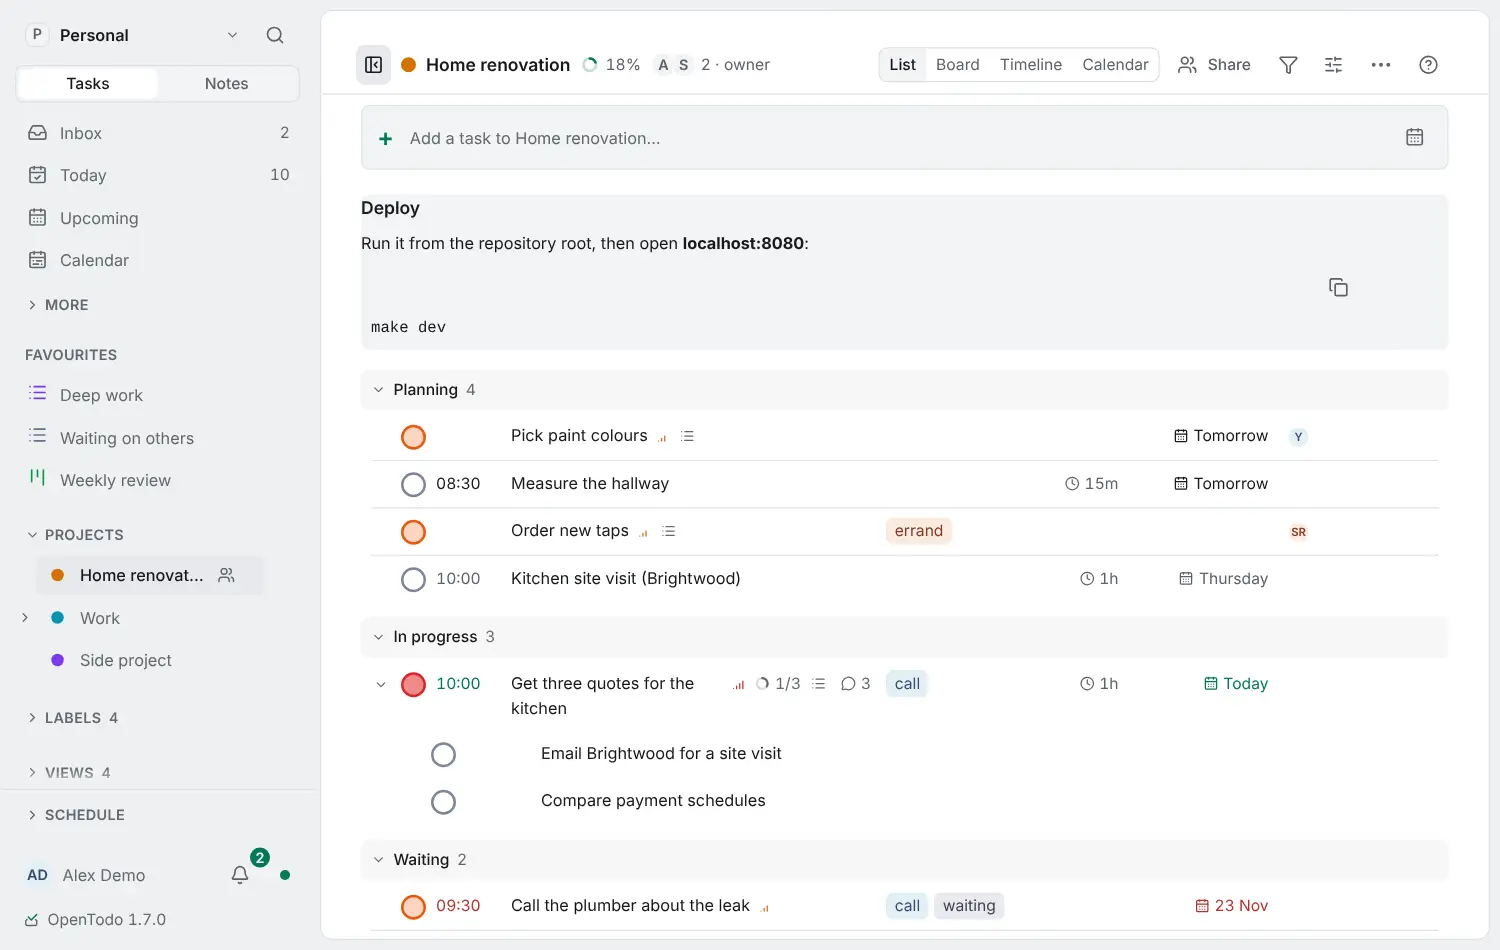
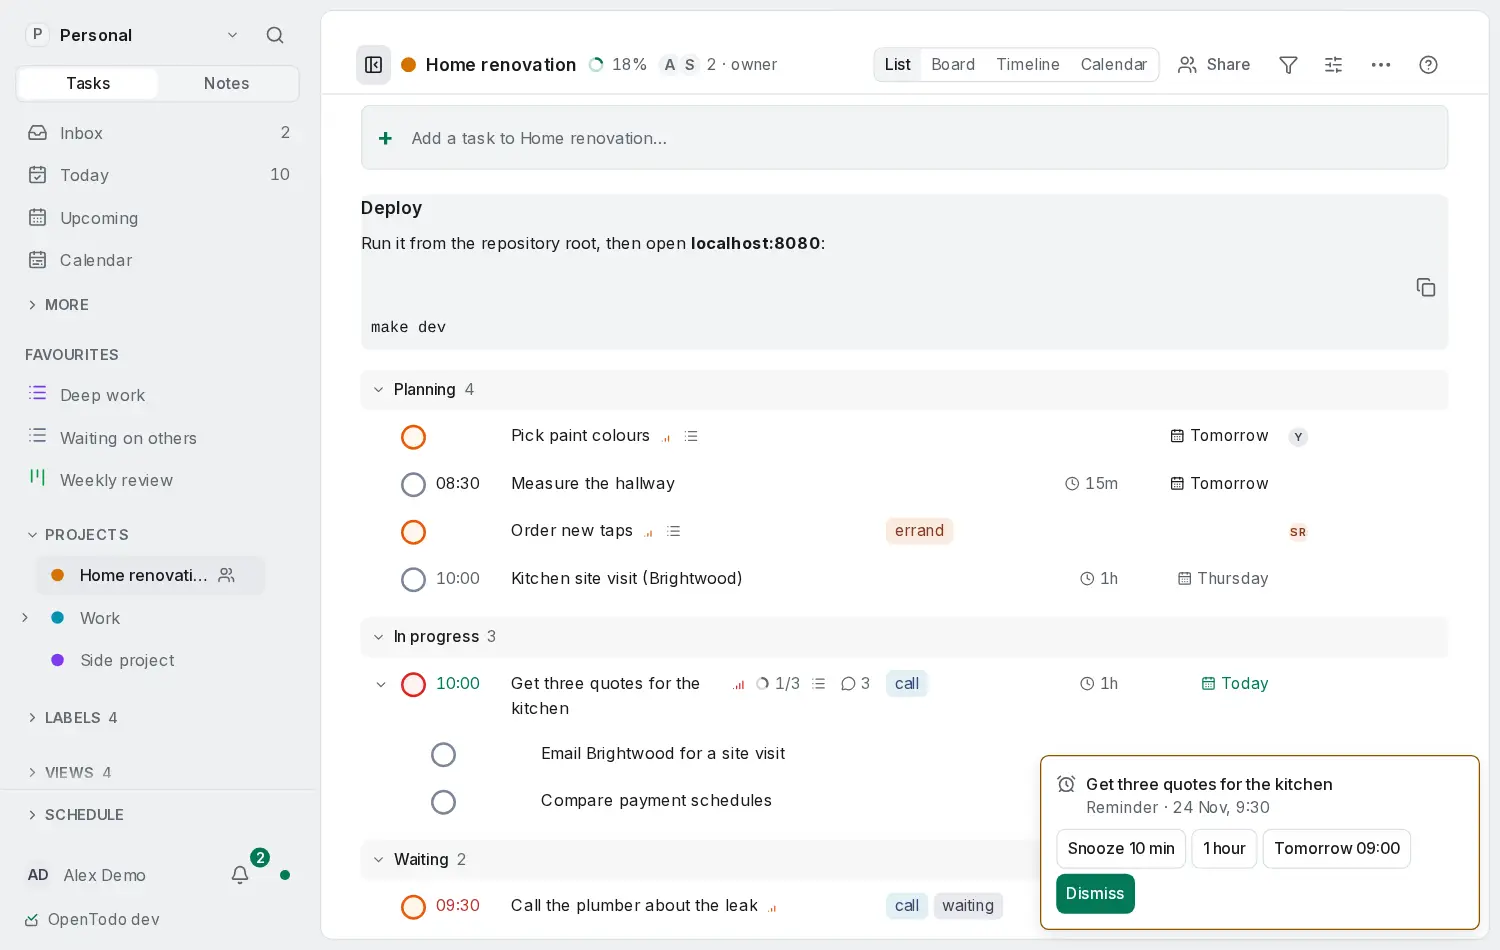
Fix: a code block's Copy button sits in the block's own corner
The bar reserved the note's corner on every code block, so a button far below
the corner floated 72 px in from the code's right edge and read as detached
from the block. The room belongs to the note's first block, once: the bar now
ends where the code does and the block keeps the note's full width.

- A note whose first block is code gives the corner's room to that block's
  bar, so the note's controls never overlap the button; every block below it
  keeps the bar at its own end corner.
- A code block takes no slot in a project note's corner any more, so a note
  with no controls reserves no room for it.
- The two screenshots in docs/copy-code-blocks.md are re-captured, where the
  button now sits at the block's corner in both themes.

diff --git a/web/src/app/notes/NoteEditor.tsx b/web/src/app/notes/NoteEditor.tsx
@@ -145,8 +145,6 @@ export function NoteForm({ note, readOnly }: { note: Note; readOnly: boolean }) 
   const project = projects.find((p) => p.id === note.project_id)
   const [focusBody] = useState(() => takeBodyFocus(note.id))
   const [initialInput] = useState(() => takePendingInput(note.id))
-  // The first code block's Copy button needs the corner's room (copy-code-block D3); a viewer's Copy note needs none.
-  const hasCode = !!note.description && note.description.split('\n').some((l) => /^ {0,3}(```|~~~)/.test(l))
   const [copied, setCopied] = useState(false)
   const form = useRef<HTMLDivElement>(null)
   const me = useMe()
@@ -159,9 +157,9 @@ export function NoteForm({ note, readOnly }: { note: Note; readOnly: boolean }) 
   return (
     <div ref={form} className="space-y-4" data-note-form={note.id}>
       <TitleInput note={note} readOnly={readOnly} />
-      {/* The rendered body sits in a frame of its own, so its first code block can leave the corner its room; the
-          editor keeps its own frame (the outline's). Only a code block takes room: a viewer's Copy note is absolutely placed. */}
-      <Suspense fallback={<div className="notes-frame" data-corner={hasCode ? '' : undefined} style={hasCode ? { '--notes-corner': '2.25rem' } as React.CSSProperties : undefined}><div className="notes-host" aria-busy="true"><div className="notes-editor">{note.description ? <Markdown source={note.description} taskId={noteParent(note.id)} /> : <p className="text-faint">{t('Add notes…')}</p>}</div></div></div>}>
+      {/* The rendered body sits in a frame of its own while the editor loads, so its text takes the same room the
+          editor's frame gives the corner; a code block's Copy button stays at the block's own corner. */}
+      <Suspense fallback={<div className="notes-frame"><div className="notes-host" aria-busy="true"><div className="notes-editor">{note.description ? <Markdown source={note.description} taskId={noteParent(note.id)} /> : <p className="text-faint">{t('Add notes…')}</p>}</div></div></div>}>
         <NotesEditor key={note.id} note={{ ...note, entity: 'note' }} readOnly={readOnly} autoFocus={initialInput ?? focusBody} outline="auto" copied={copied} onCopied={() => setCopied(true)} />
       </Suspense>
       {/* Viewers attach too (note-attachments D2); nothing shows until the note has a file. */}

diff --git a/web/src/index.css b/web/src/index.css
@@ -1033,19 +1033,18 @@ a.note-ref:focus-visible { @apply outline-2 outline-focus; }
    It takes no room of its own, so a note without a code block reserves no corner. */
 .note-copy-action { @apply absolute size-px overflow-hidden opacity-0; }
 .note-copy-action:focus-visible { @apply relative size-8 overflow-visible opacity-100; }
-.notes-frame[data-corner] .notes-editor > :first-child,
+.notes-frame[data-corner] .notes-editor > :first-child:not(.md-code),
 .notes-frame[data-corner] .editor-toolbar,
 .notes-frame[data-corner] > .notes-source { padding-inline-end: var(--notes-corner); }
+/* A note that opens with a code block (copy-code-block D3): the corner sits over the
+   block's bar, so only the bar leaves it room and the code keeps the block's width. */
+.notes-frame[data-corner] .notes-editor > :first-child.md-code .md-code__bar { padding-inline-end: var(--notes-corner); }
 /* A code block in rendered Markdown (copy-code-block D3): the Copy button sits in a
    bar above the code at its end corner, so it never covers the first line and the
    code keeps its own scroller. */
 .md-code { @apply relative rounded-control bg-sunken dark:bg-raised; }
 .md-code__bar { @apply flex justify-end px-0.5 pt-0.5; }
 .md-code > pre { @apply bg-transparent p-2; }
-/* A rendered note under a corner (copy-code-block): its first code block leaves the
-   corner its room, so the note's controls and the block's Copy button never overlap.
-   After the bar's own padding, so this wins: same layer, same specificity class. */
-.notes-frame[data-corner] > :not(.notes-corner):has(.md-code) .md-code__bar { padding-inline-end: var(--notes-corner); }
 /* The same block inside the editor (editor-copy-code-block D1): its node view draws
    the bar and the code, so it takes the rendered block's look and keeps the editor's
    own code typography. */

diff --git a/web/src/app/markdownCopy.test.tsx b/web/src/app/markdownCopy.test.tsx
@@ -5,6 +5,7 @@
 import { afterEach, describe, expect, it, vi } from 'vitest'
 import { click, render, waitFor } from '../ui/test-utils'
 import { Markdown } from './Markdown'
+import css from '../index.css?raw'
 
 const realClipboard = Object.getOwnPropertyDescriptor(navigator, 'clipboard')
 function stubClipboard(writeText: (t: string) => Promise<void>) {
@@ -60,5 +61,15 @@ describe('a code block in rendered Markdown', () => {
     const { container, unmount } = await render(<Markdown source={'```\na\n```\n\n```\nb\n```'} />)
     expect(container.querySelectorAll('[data-code-copy]').length).toBe(2)
     await unmount()
+  })
+
+  // The bar ends at the block's own end corner (copy-code-block D3). Reserving the
+  // note's corner on every bar pushed the button 72 px in from it, on blocks far below
+  // the corner; the room belongs to the note's first block, once.
+  it("keeps the bar at the block's end corner and the corner's room on the note's first block", () => {
+    expect(css).toMatch(/\.md-code__bar \{ @apply flex justify-end px-0\.5 pt-0\.5; \}/)
+    expect(css).toMatch(/\.notes-frame\[data-corner\] \.notes-editor > :first-child:not\(\.md-code\),/)
+    expect(css).toMatch(/\.notes-frame\[data-corner\] \.notes-editor > :first-child\.md-code \.md-code__bar \{ padding-inline-end: var\(--notes-corner\); \}/)
+    expect(css).not.toMatch(/:not\(\.notes-corner\):has\(\.md-code\) \.md-code__bar/)
   })
 })

diff --git a/web/src/app/projectNote.test.tsx b/web/src/app/projectNote.test.tsx
@@ -79,16 +79,18 @@ describe('project note', () => {
     await r.unmount()
   })
 
-  // copy-code-block: the corner's width is a variable on the frame, so a code block's
-  // Copy button leaves the corner its room instead of sliding under the note's controls.
-  it("a code block's Copy button leaves the note's corner its room", async () => {
+  // copy-code-block: a code block takes no slot in the note's corner. Its Copy button
+  // sits at the block's own corner, so a note with no controls reserves no room for it.
+  it("a code block's Copy button sits at the block's own corner", async () => {
     const p = await createProject({ name: 'Deploy' })
     await updateProject(p, { description: 'Run:\n\n```bash\nmake dev\n```' })
     const r = await render(<TaskListView route={{ view: 'project', id: p }} />)
     await waitFor(() => !!r.container.querySelector('[data-project-note] [data-code-copy]'))
     const frame = r.container.querySelector<HTMLElement>('[data-project-note] .notes-frame')!
-    expect(frame.getAttribute('data-corner')).not.toBeNull()
-    expect(frame.style.getPropertyValue('--notes-corner')).toBe('2.25rem')
+    // Nothing to make room for: the block keeps the note's full width and the button
+    // ends where the block does.
+    expect(frame.getAttribute('data-corner')).toBeNull()
+    expect(frame.style.getPropertyValue('--notes-corner')).toBe('')
     await r.unmount()
   })
 

diff --git a/web/src/app/ProjectNote.tsx b/web/src/app/ProjectNote.tsx
@@ -120,13 +120,11 @@ export function ProjectNote({ project, phone = false }: { project: Project; phon
   const outlined = heads.length >= OUTLINE_MIN && !sourceShown
   // A viewer's way to the source (note-markdown-source "Viewer"); an editor has it in the editor.
   const sourceButton = !editable && !coarse
-  // The first code block's Copy button needs the corner's room (copy-code-block).
-  const codeBlocks = !sourceShown && note.split('\n').some((l) => /^ {0,3}(```|~~~)/.test(l)) ? 1 : 0
-  const corner = (outlined ? 1 : 0) + (sourceButton ? 1 : 0) + codeBlocks
+  const corner = (outlined ? 1 : 0) + (sourceButton ? 1 : 0)
   return (
     <section aria-label={t('Project note')} className="mb-4" data-project-note={clipped ? 'folded' : 'open'}>
-      {/* The corner's width as a variable, so the note's own content and a code block's
-          Copy button both leave it room (copy-code-block); the bar reads it in index.css. */}
+      {/* The corner's width as a variable, so the note's text leaves the corner its room
+          (copy-code-block); a code block's Copy button stays at the block's own corner. */}
       <div className="notes-frame" data-outline={outlined ? 'menu' : undefined} data-corner={corner || undefined}
         style={corner ? { '--notes-corner': `${corner * 2.25}rem` } as React.CSSProperties : undefined}>
         {corner > 0 && (

diff --git a/changelog.d/Fixed/code-block-copy-corner.md b/changelog.d/Fixed/code-block-copy-corner.md
@@ -1,0 +1,1 @@
+- **A code block's Copy button sits in the block's own corner.** It floated a button's width or more in from the right edge of the code, so it read as detached from the block; it now ends where the code does, and the block keeps the note's full width.
